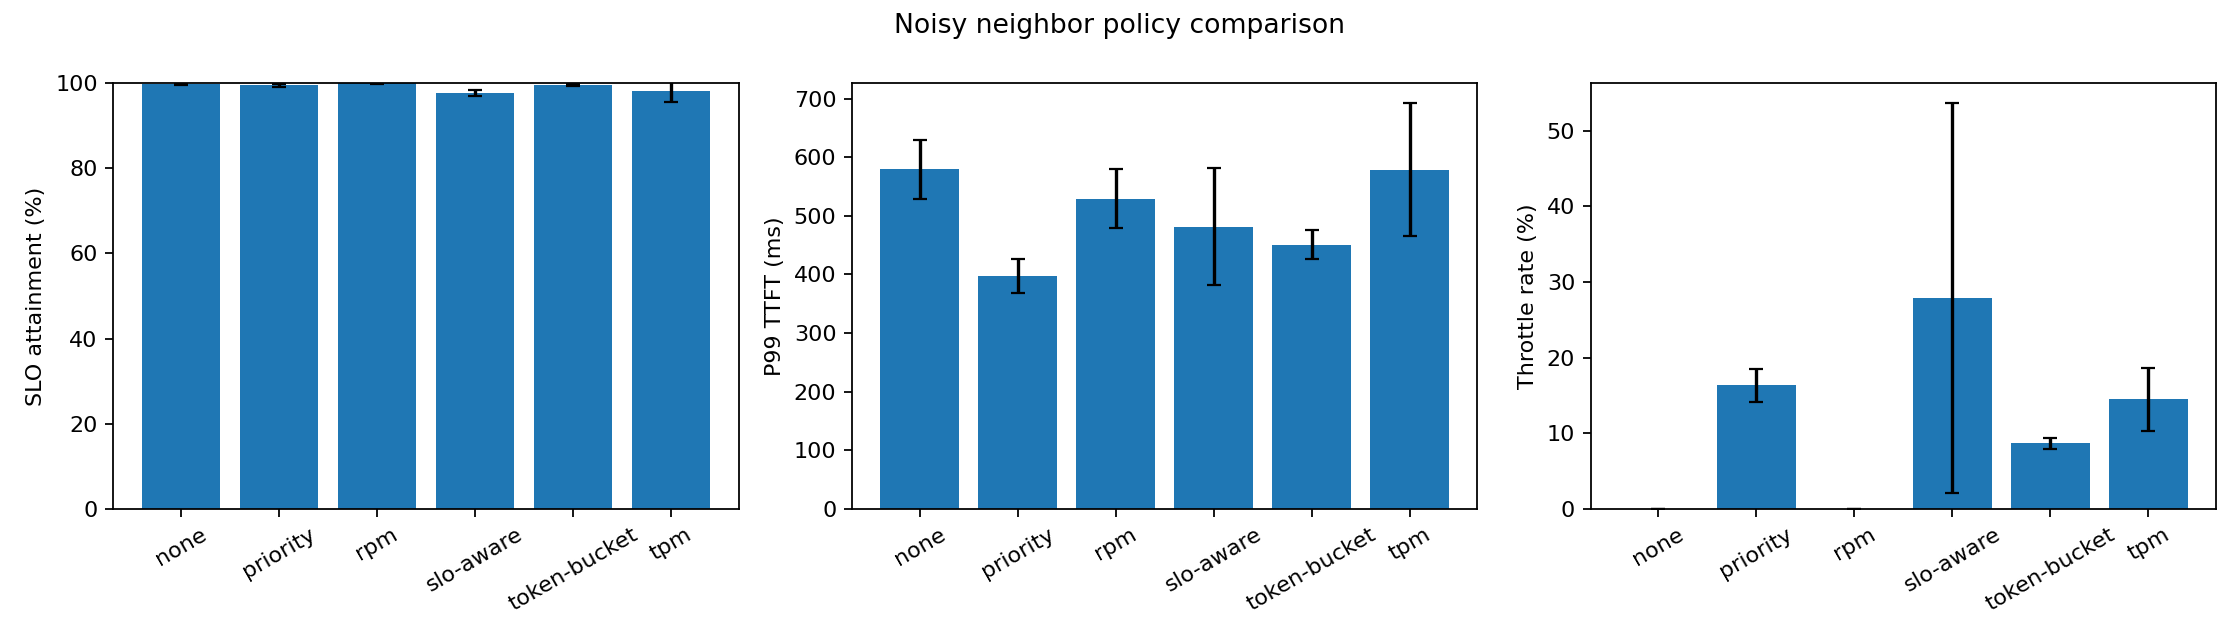
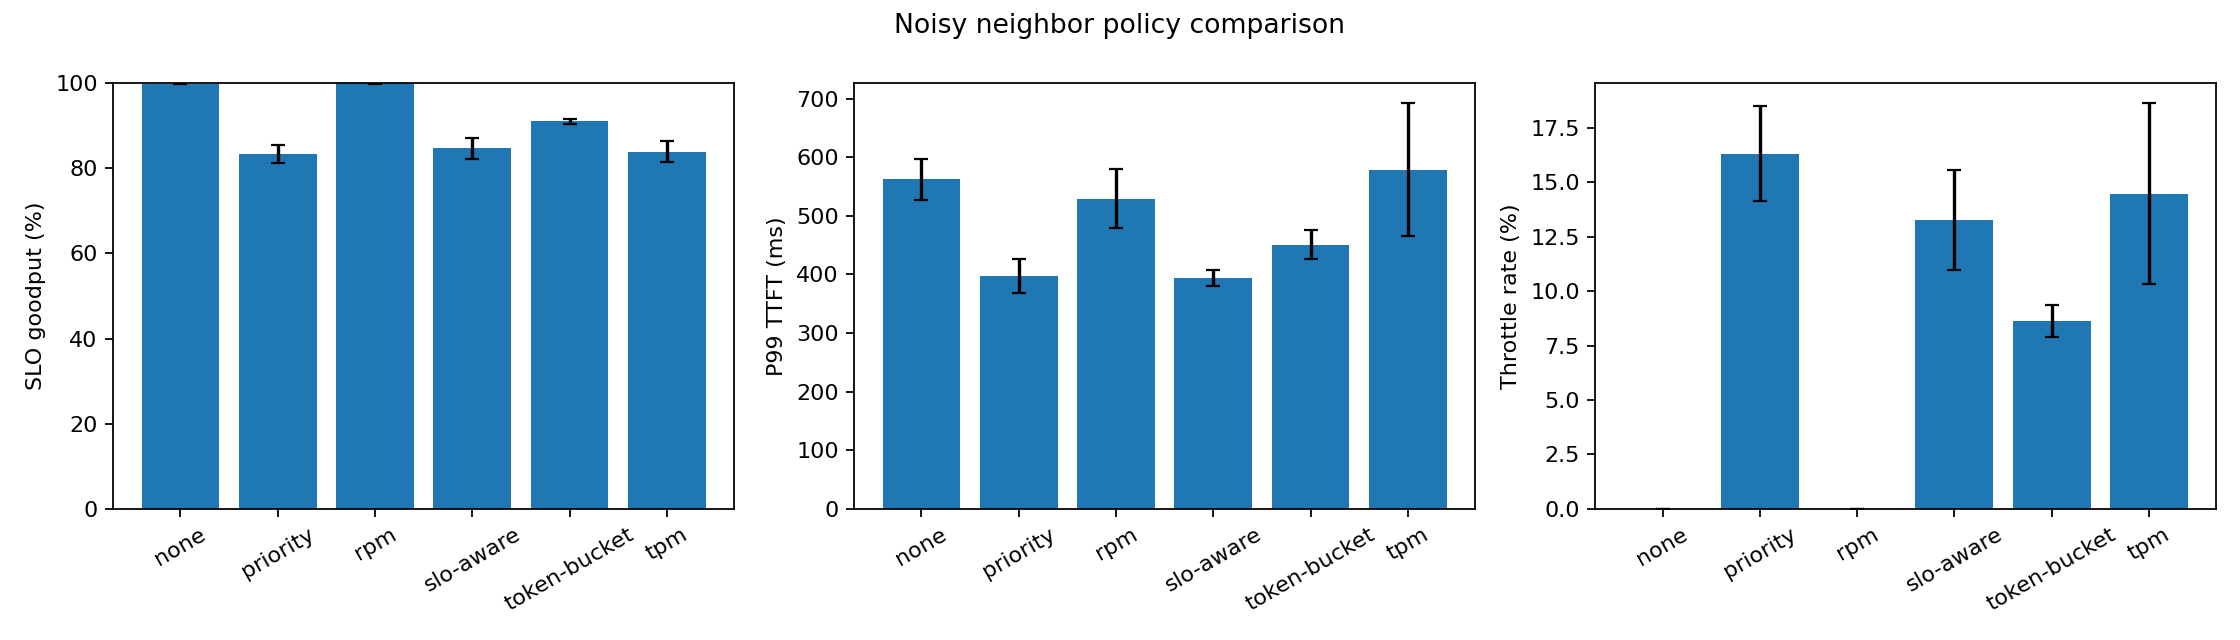
Freeze paper run selection and add effective SLO goodput metrics.

diff --git a/analysis/visualize.py b/analysis/visualize.py
@@ -1,8 +1,9 @@
 #!/usr/bin/env python3
-"""Simple policy-level visualization from summary.json runs.
+"""Policy-level aggregation with frozen run selection.
 
-Input runs typically live under `analysis/archive/*/summary.json` (raw run folders),
-while the generated paper artifacts go to `analysis/result_paper/`.
+Input runs live under `analysis/archive/*/summary.json` (raw run folders).
+This script selects the latest run for each `(policy, repetition)` and writes
+paper-ready artifacts to `analysis/result_paper/`.
 """
 
 from __future__ import annotations
@@ -22,6 +23,8 @@ def main() -> None:
     parser.add_argument("--out", type=Path, default=Path("analysis/result_paper"))
     parser.add_argument("--scenario", default="noisy_neighbor")
     parser.add_argument("--title", default="Policy comparison")
+    parser.add_argument("--rep-min", type=int, default=1)
+    parser.add_argument("--rep-max", type=int, default=5)
     args = parser.parse_args()
 
     args.out.mkdir(parents=True, exist_ok=True)
@@ -29,10 +32,15 @@ def main() -> None:
     if not runs:
         raise SystemExit(f"no summary.json found for scenario '{args.scenario}' in {args.input}")
 
-    stats = _aggregate(runs)
+    selected = _select_latest_repetitions(runs, args.rep_min, args.rep_max)
+    if not selected:
+        raise SystemExit("no runs match selected repetition window")
+
+    stats = _aggregate(selected)
     _write_csv(args.out / f"{args.scenario}_policy_summary.csv", stats)
     chart = args.out / f"{args.scenario}_policy_summary.png"
     _plot(chart, stats, args.title)
+    _write_markdown(args.out / f"{args.scenario}_all_policies_summary.md", stats, selected, args.rep_min, args.rep_max)
     print(f"wrote {chart}")
 
 
@@ -46,24 +54,57 @@ def _load_runs(out_dir: Path, scenario: str) -> list[dict]:
         policy = match.group(1)
         rep = int(match.group(2))
         summary = json.loads(file.read_text(encoding="utf-8"))
-        rows.append({"policy": policy, "rep": rep, "summary": summary, "run": file.parent.name})
+        rows.append({"policy": policy, "rep": rep, "summary": summary, "run": file.parent.name, "ts": file.parent.name.rsplit("-", 1)[-1]})
     return rows
+
+
+def _select_latest_repetitions(rows: list[dict], rep_min: int, rep_max: int) -> list[dict]:
+    latest: dict[tuple[str, int], dict] = {}
+    for row in rows:
+        rep = row["rep"]
+        if rep < rep_min or rep > rep_max:
+            continue
+        key = (row["policy"], rep)
+        prev = latest.get(key)
+        if prev is None or row["run"] > prev["run"]:
+            latest[key] = row
+    return sorted(latest.values(), key=lambda r: (r["policy"], r["rep"]))
 
 
 def _aggregate(rows: list[dict]) -> list[dict]:
     by_policy: dict[str, list[dict]] = {}
     for row in rows:
-        by_policy.setdefault(row["policy"], []).append(row["summary"])
+        by_policy.setdefault(row["policy"], []).append(row)
 
-    metrics = ["admit_rate", "slo_attainment", "p99_ttft_ms", "throttle_rate"]
+    metrics = [
+        "admit_rate",
+        "conditional_slo_attainment",
+        "slo_goodput",
+        "p99_ttft_ms",
+        "throttle_rate",
+    ]
     out: list[dict] = []
     for policy in sorted(by_policy):
-        values = by_policy[policy]
+        policy_rows = by_policy[policy]
+        values = [r["summary"] for r in policy_rows]
         agg = {"policy": policy, "repetitions": len(values)}
         for metric in metrics:
-            col = [v[metric] for v in values if v.get(metric) is not None]
+            if metric == "slo_goodput":
+                col = [
+                    (v.get("slo_goodput") if v.get("slo_goodput") is not None else v.get("admit_rate", 0.0) * v.get("slo_attainment", 0.0))
+                    for v in values
+                ]
+            elif metric == "conditional_slo_attainment":
+                col = [
+                    (v.get("conditional_slo_attainment") if v.get("conditional_slo_attainment") is not None else v.get("slo_attainment"))
+                    for v in values
+                    if v.get("slo_attainment") is not None or v.get("conditional_slo_attainment") is not None
+                ]
+            else:
+                col = [v[metric] for v in values if v.get(metric) is not None]
             agg[f"{metric}_mean"] = mean(col)
             agg[f"{metric}_std"] = pstdev(col) if len(col) > 1 else 0.0
+        agg["selected_runs"] = [r["run"] for r in sorted(policy_rows, key=lambda x: x["rep"])]
         out.append(agg)
     return out
 
@@ -74,8 +115,10 @@ def _write_csv(path: Path, rows: list[dict]) -> None:
         "repetitions",
         "admit_rate_mean",
         "admit_rate_std",
-        "slo_attainment_mean",
-        "slo_attainment_std",
+        "conditional_slo_attainment_mean",
+        "conditional_slo_attainment_std",
+        "slo_goodput_mean",
+        "slo_goodput_std",
         "p99_ttft_ms_mean",
         "p99_ttft_ms_std",
         "throttle_rate_mean",
@@ -89,8 +132,8 @@ def _write_csv(path: Path, rows: list[dict]) -> None:
 
 def _plot(path: Path, rows: list[dict], title: str) -> None:
     names = [r["policy"] for r in rows]
-    slo_mean = [100 * r["slo_attainment_mean"] for r in rows]
-    slo_std = [100 * r["slo_attainment_std"] for r in rows]
+    goodput_mean = [100 * r["slo_goodput_mean"] for r in rows]
+    goodput_std = [100 * r["slo_goodput_std"] for r in rows]
     p99_mean = [r["p99_ttft_ms_mean"] for r in rows]
     p99_std = [r["p99_ttft_ms_std"] for r in rows]
     thr_mean = [100 * r["throttle_rate_mean"] for r in rows]
@@ -99,8 +142,8 @@ def _plot(path: Path, rows: list[dict], title: str) -> None:
     fig, axes = plt.subplots(1, 3, figsize=(14, 4))
     fig.suptitle(title)
 
-    axes[0].bar(names, slo_mean, yerr=slo_std, capsize=3)
-    axes[0].set_ylabel("SLO attainment (%)")
+    axes[0].bar(names, goodput_mean, yerr=goodput_std, capsize=3)
+    axes[0].set_ylabel("SLO goodput (%)")
     axes[0].set_ylim(0, 100)
     axes[0].tick_params(axis="x", rotation=30)
 
@@ -114,6 +157,33 @@ def _plot(path: Path, rows: list[dict], title: str) -> None:
 
     fig.tight_layout()
     fig.savefig(path, dpi=160)
+
+
+def _write_markdown(path: Path, rows: list[dict], selected: list[dict], rep_min: int, rep_max: int) -> None:
+    by_policy_runs: dict[str, list[dict]] = {}
+    for row in selected:
+        by_policy_runs.setdefault(row["policy"], []).append(row)
+
+    lines = [
+        "# Noisy Neighbor All-Policies Summary",
+        "",
+        f"Selection rule: latest run per `(policy, repetition)` for `r{rep_min}..r{rep_max}` (based on timestamp in run folder name).",
+        "",
+        "| Policy | Reps | Admit rate | Conditional SLO | SLO Goodput | P99 TTFT (ms) | Throttle rate |",
+        "|---|---:|---:|---:|---:|---:|---:|",
+    ]
+    for row in rows:
+        lines.append(
+            f"| `{row['policy']}` | {row['repetitions']} | {row['admit_rate_mean']:.3f} | "
+            f"{row['conditional_slo_attainment_mean']:.3f} | {row['slo_goodput_mean']:.3f} | "
+            f"{row['p99_ttft_ms_mean']:.1f} | {row['throttle_rate_mean']:.3f} |"
+        )
+    lines.extend(["", "## Selected runs (per policy, repetition)", ""])
+    for policy in sorted(by_policy_runs):
+        ordered = sorted(by_policy_runs[policy], key=lambda r: r["rep"])
+        parts = [f"r{r['rep']}: {r['run']}" for r in ordered]
+        lines.append(f"- `{policy}`: " + "; ".join(parts))
+    path.write_text("\n".join(lines) + "\n", encoding="utf-8")
 
 
 if __name__ == "__main__":

diff --git a/analysis/metrics.py b/analysis/metrics.py
@@ -23,12 +23,19 @@ def summarize(events: list[dict], exclude_tenants: set[str] | None = None) -> di
     n = len(rows) or 1
     admitted = [e for e in rows if e.get("decision") == "ADMIT"]
     ttfts = sorted(e["ttft_ms"] for e in admitted if e.get("ttft_ms") is not None)
-    slo = sum(1 for e in admitted if e.get("slo_met")) / max(len(admitted), 1)
+    admitted_n = len(admitted)
+    admitted_slo_n = sum(1 for e in admitted if e.get("slo_met"))
+    conditional_slo = admitted_slo_n / max(admitted_n, 1)
+    # Effective SLO success over all offered requests.
+    slo_goodput = admitted_slo_n / n
     return {
         "requests": len(rows),
-        "admit_rate": len(admitted) / n,
+        "admit_rate": admitted_n / n,
         "reject_rate": sum(1 for e in rows if e.get("decision") == "REJECT") / n,
-        "slo_attainment": slo,
+        # Backward-compatibility alias. This is SLO among admitted requests.
+        "slo_attainment": conditional_slo,
+        "conditional_slo_attainment": conditional_slo,
+        "slo_goodput": slo_goodput,
         "p50_ttft_ms": _pct(ttfts, 0.50),
         "p99_ttft_ms": _pct(ttfts, 0.99),
         "bedrock_429_rate": sum(1 for e in rows if e.get("bedrock_429")) / n,
@@ -47,9 +54,12 @@ def _by_tier(rows: list[dict]) -> dict[str, dict]:
 
 def summarize_simple(rows: list[dict]) -> dict:
     admitted = [e for e in rows if e.get("decision") == "ADMIT"]
+    admitted_slo_n = sum(1 for e in admitted if e.get("slo_met"))
     return {
         "n": len(rows),
-        "slo_attainment": sum(1 for e in admitted if e.get("slo_met")) / max(len(admitted), 1),
+        "slo_attainment": admitted_slo_n / max(len(admitted), 1),
+        "conditional_slo_attainment": admitted_slo_n / max(len(admitted), 1),
+        "slo_goodput": admitted_slo_n / max(len(rows), 1),
         "admit_rate": len(admitted) / max(len(rows), 1),
     }
 

diff --git a/analysis/result_paper/noisy_neighbor_all_policies_summary.md b/analysis/result_paper/noisy_neighbor_all_policies_summary.md
@@ -2,20 +2,20 @@
 
 Selection rule: latest run per `(policy, repetition)` for `r1..r5` (based on timestamp in run folder name).
 
-| Policy | Reps | Admit rate | Reject rate | SLO attainment | P99 TTFT (ms) | Throttle rate |
+| Policy | Reps | Admit rate | Conditional SLO | SLO Goodput | P99 TTFT (ms) | Throttle rate |
 |---|---:|---:|---:|---:|---:|---:|
-| `none` | 5 | 1.000 | 0.000 | 0.999 | 562.0 | 0.000 |
-| `rpm` | 5 | 1.000 | 0.000 | 1.000 | 528.8 | 0.000 |
-| `tpm` | 5 | 0.855 | 0.145 | 0.982 | 578.8 | 0.145 |
-| `token-bucket` | 5 | 0.914 | 0.086 | 0.997 | 450.7 | 0.086 |
-| `priority` | 5 | 0.837 | 0.163 | 0.996 | 397.0 | 0.163 |
-| `slo-aware` | 5 | 0.867 | 0.133 | 0.977 | 393.9 | 0.133 |
+| `none` | 5 | 1.000 | 0.999 | 0.999 | 562.0 | 0.000 |
+| `priority` | 5 | 0.837 | 0.996 | 0.833 | 397.0 | 0.163 |
+| `rpm` | 5 | 1.000 | 1.000 | 1.000 | 528.8 | 0.000 |
+| `slo-aware` | 5 | 0.867 | 0.977 | 0.847 | 393.9 | 0.133 |
+| `token-bucket` | 5 | 0.914 | 0.997 | 0.910 | 450.7 | 0.086 |
+| `tpm` | 5 | 0.855 | 0.982 | 0.839 | 578.8 | 0.145 |
 
 ## Selected runs (per policy, repetition)
 
 - `none`: r1: noisy_neighbor-none-r1-20260818-202620; r2: noisy_neighbor-none-r2-20260818-203818; r3: noisy_neighbor-none-r3-20260818-205033; r4: noisy_neighbor-none-r4-20260818-210216; r5: noisy_neighbor-none-r5-20260818-211516
-- `rpm`: r1: noisy_neighbor-rpm-r1-20260818-212715; r2: noisy_neighbor-rpm-r2-20260818-213913; r3: noisy_neighbor-rpm-r3-20260818-215056; r4: noisy_neighbor-rpm-r4-20260818-220239; r5: noisy_neighbor-rpm-r5-20260818-221437
-- `tpm`: r1: noisy_neighbor-tpm-r1-20260818-222621; r2: noisy_neighbor-tpm-r2-20260818-223818; r3: noisy_neighbor-tpm-r3-20260818-225001; r4: noisy_neighbor-tpm-r4-20260818-230145; r5: noisy_neighbor-tpm-r5-20260818-231344
-- `token-bucket`: r1: noisy_neighbor-token-bucket-r1-20260818-232557; r2: noisy_neighbor-token-bucket-r2-20260818-233856; r3: noisy_neighbor-token-bucket-r3-20260818-235054; r4: noisy_neighbor-token-bucket-r4-20260819-000254; r5: noisy_neighbor-token-bucket-r5-20260819-001440
 - `priority`: r1: noisy_neighbor-priority-r1-20260819-002640; r2: noisy_neighbor-priority-r2-20260819-003838; r3: noisy_neighbor-priority-r3-20260819-005020; r4: noisy_neighbor-priority-r4-20260819-010204; r5: noisy_neighbor-priority-r5-20260819-011348
+- `rpm`: r1: noisy_neighbor-rpm-r1-20260818-212715; r2: noisy_neighbor-rpm-r2-20260818-213913; r3: noisy_neighbor-rpm-r3-20260818-215056; r4: noisy_neighbor-rpm-r4-20260818-220239; r5: noisy_neighbor-rpm-r5-20260818-221437
 - `slo-aware`: r1: noisy_neighbor-slo-aware-r1-20260819-012547; r2: noisy_neighbor-slo-aware-r2-20260819-013800; r3: noisy_neighbor-slo-aware-r3-20260819-014945; r4: noisy_neighbor-slo-aware-r4-20260819-020142; r5: noisy_neighbor-slo-aware-r5-20260819-021326
+- `token-bucket`: r1: noisy_neighbor-token-bucket-r1-20260818-232557; r2: noisy_neighbor-token-bucket-r2-20260818-233856; r3: noisy_neighbor-token-bucket-r3-20260818-235054; r4: noisy_neighbor-token-bucket-r4-20260819-000254; r5: noisy_neighbor-token-bucket-r5-20260819-001440
+- `tpm`: r1: noisy_neighbor-tpm-r1-20260818-222621; r2: noisy_neighbor-tpm-r2-20260818-223818; r3: noisy_neighbor-tpm-r3-20260818-225001; r4: noisy_neighbor-tpm-r4-20260818-230145; r5: noisy_neighbor-tpm-r5-20260818-231344

diff --git a/analysis/result_paper/noisy_neighbor_comparison.md b/analysis/result_paper/noisy_neighbor_comparison.md
@@ -14,19 +14,19 @@ This note compares the noisy-neighbor experiment under `none` vs `slo-aware`.
 - `none`: `r1` to `r5` full 100-tenant runs
 - `slo-aware`: 20260819 `r1` to `r5` full 100-tenant runs
 
-## Aggregated Results
+## Aggregated Results (latest r1-r5 selection)
 
-| Policy | Admit rate | Throttle rate | SLO attainment | p99 TTFT |
-|---|---:|---:|---:|---:|
-| `none` | 1.000 | 0.000 | ~0.999 | ~562 ms |
-| `slo-aware` | 0.867 ± 0.023 | 0.133 ± 0.023 | 0.977 ± 0.003 | 394 ± 13 ms |
+| Policy | Admit rate | Throttle rate | Conditional SLO | SLO goodput | p99 TTFT |
+|---|---:|---:|---:|---:|---:|
+| `none` | 1.000 | 0.000 | ~0.999 | ~0.999 | ~562 ms |
+| `slo-aware` | 0.867 ± 0.023 | 0.133 ± 0.023 | 0.977 ± 0.003 | ~0.847 | 394 ± 13 ms |
 
 ## Interpretation
 
 - `slo-aware` reduces p99 TTFT from ~562 ms to ~394 ms (about 30% lower tail latency).
 - This improvement is achieved by proactive shedding (~13% throttling on average).
-- Priority behavior matches design intent: P1 remains fully admitted while lower tiers absorb most throttling.
+- Priority behavior matches design intent: P1 admission remains high but not perfect (~98.5% pooled across the selected 5 runs), while lower tiers absorb most throttling.
 
 ## Paper-ready Takeaway
 
-Under the noisy-neighbor workload with a real Bedrock backend, the SLO-aware controller preserves high SLO attainment while significantly reducing tail latency for non-victim tenants. Relative to no admission control, it lowers p99 TTFT by roughly 30% at the cost of approximately 13% request shedding, with preferential protection for high-priority tenants.
+Under the current noisy-neighbor workload with a real Bedrock backend, the SLO-aware controller primarily shows a latency-vs-admission tradeoff: it lowers p99 TTFT by roughly 30% relative to no admission control at the cost of approximately 13% request shedding. This pilot does not yet demonstrate improved effective SLO success versus a baseline that is already near-saturated but still within SLO.
